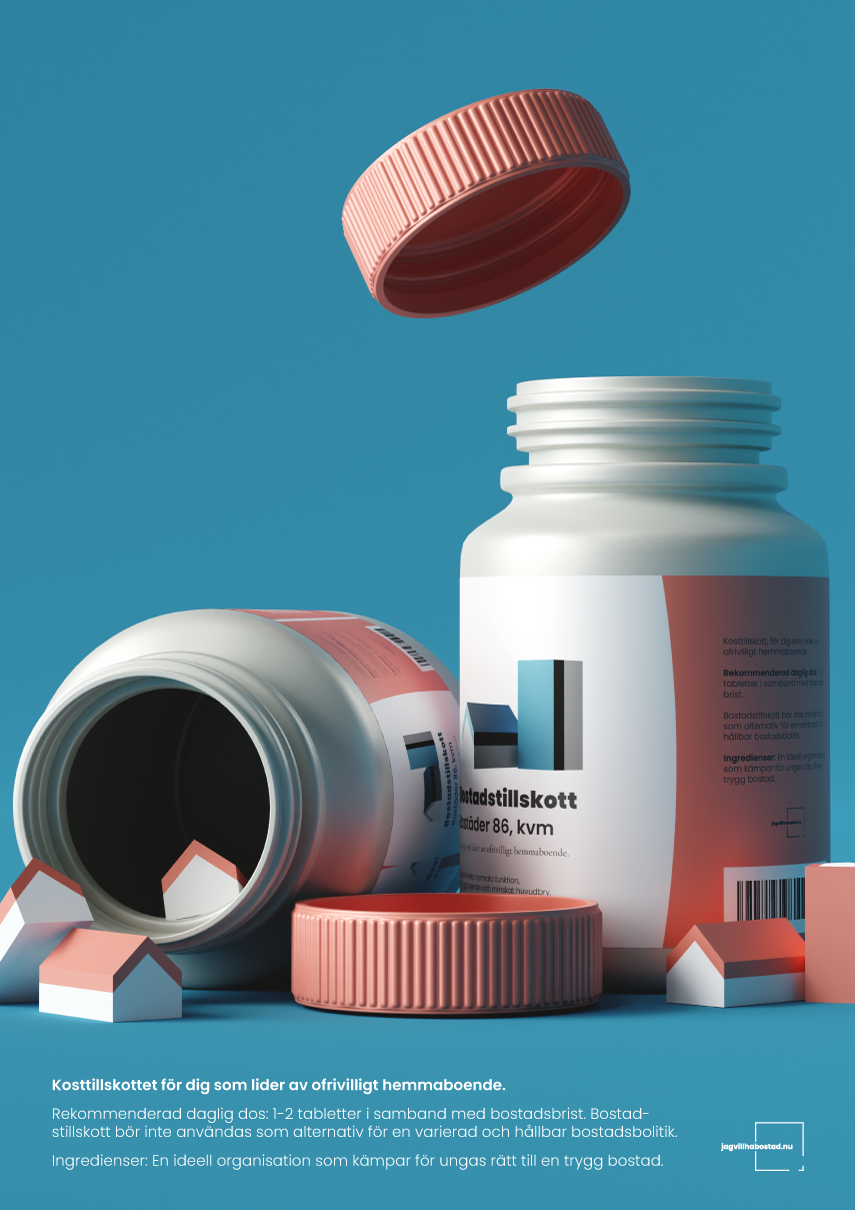
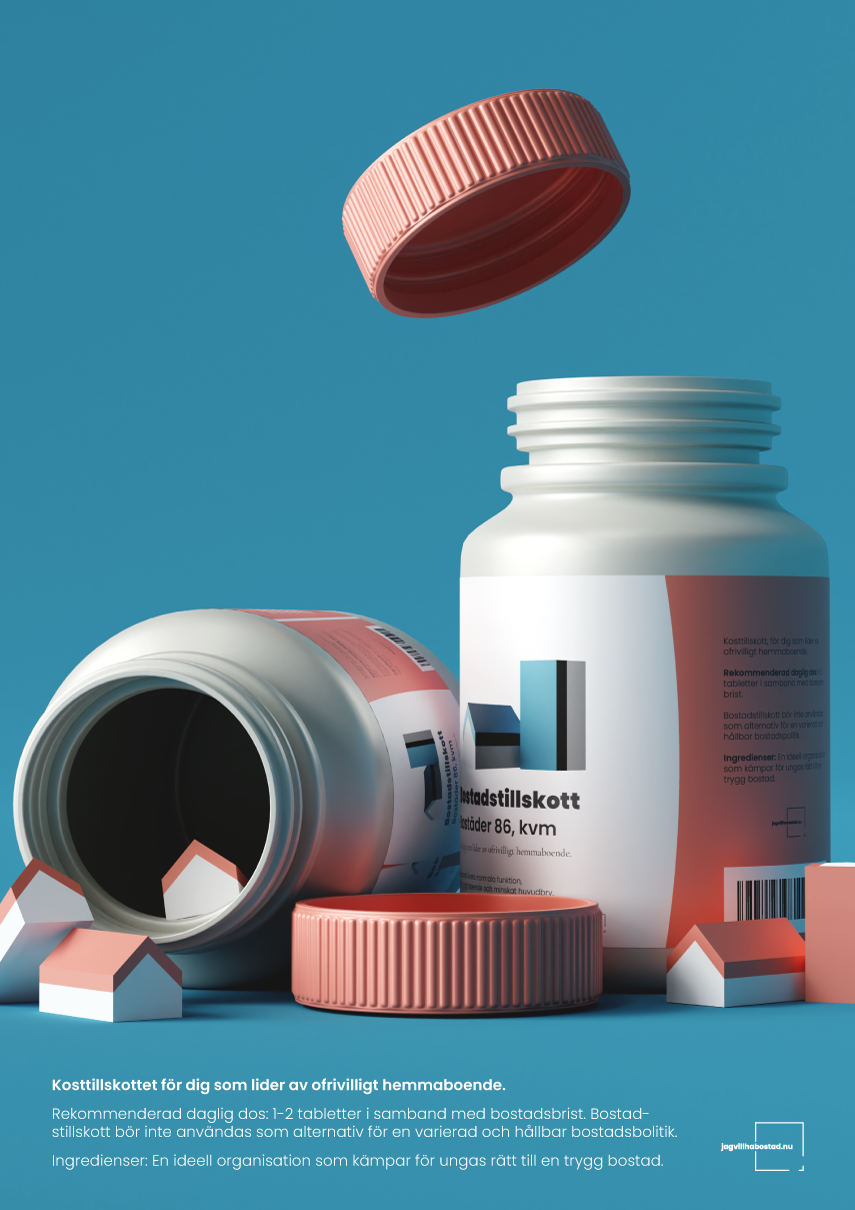
bolitik

diff --git a/bostadstillskott.html b/bostadstillskott.html
@@ -57,7 +57,7 @@
           <p>När man har brist, då kan man ta tillskott.</p>
           <br>
           <h3><b>Idé</b></h3>
-          <p>Använd hälsotillskott som en metafor för jagvillhabostads verksamhet.</p>
+          <p>Använd kosttillskott som en metafor för jagvillhabostads verksamhet.</p>
           <p>Genom att använda oss av en metafor, pillerburken, som vi kallar för bostadstillskott kan vi direkt förankra kampanjen i ett etablerat manér och därmed använda oss av en subtil humor i kommunikationen.</p>
           <p>Kampanjen lanseras OOH i alla Svenska storstäder.</p>
       </section>
